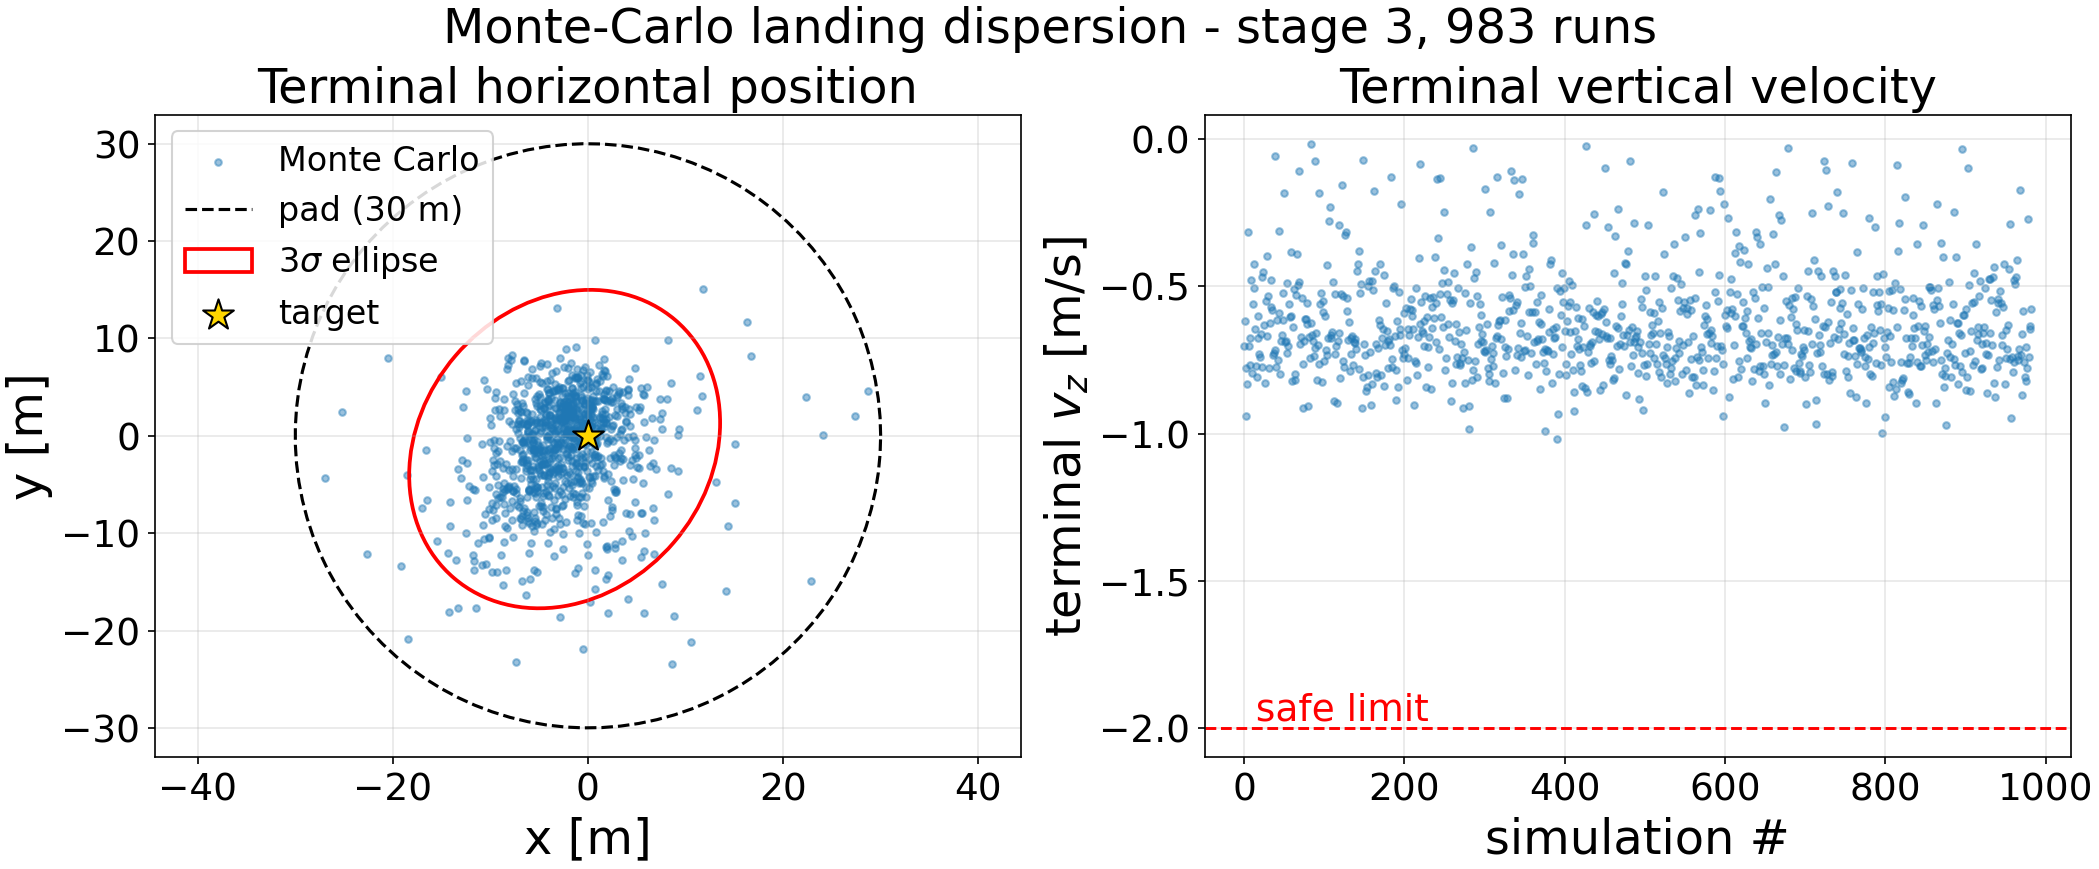
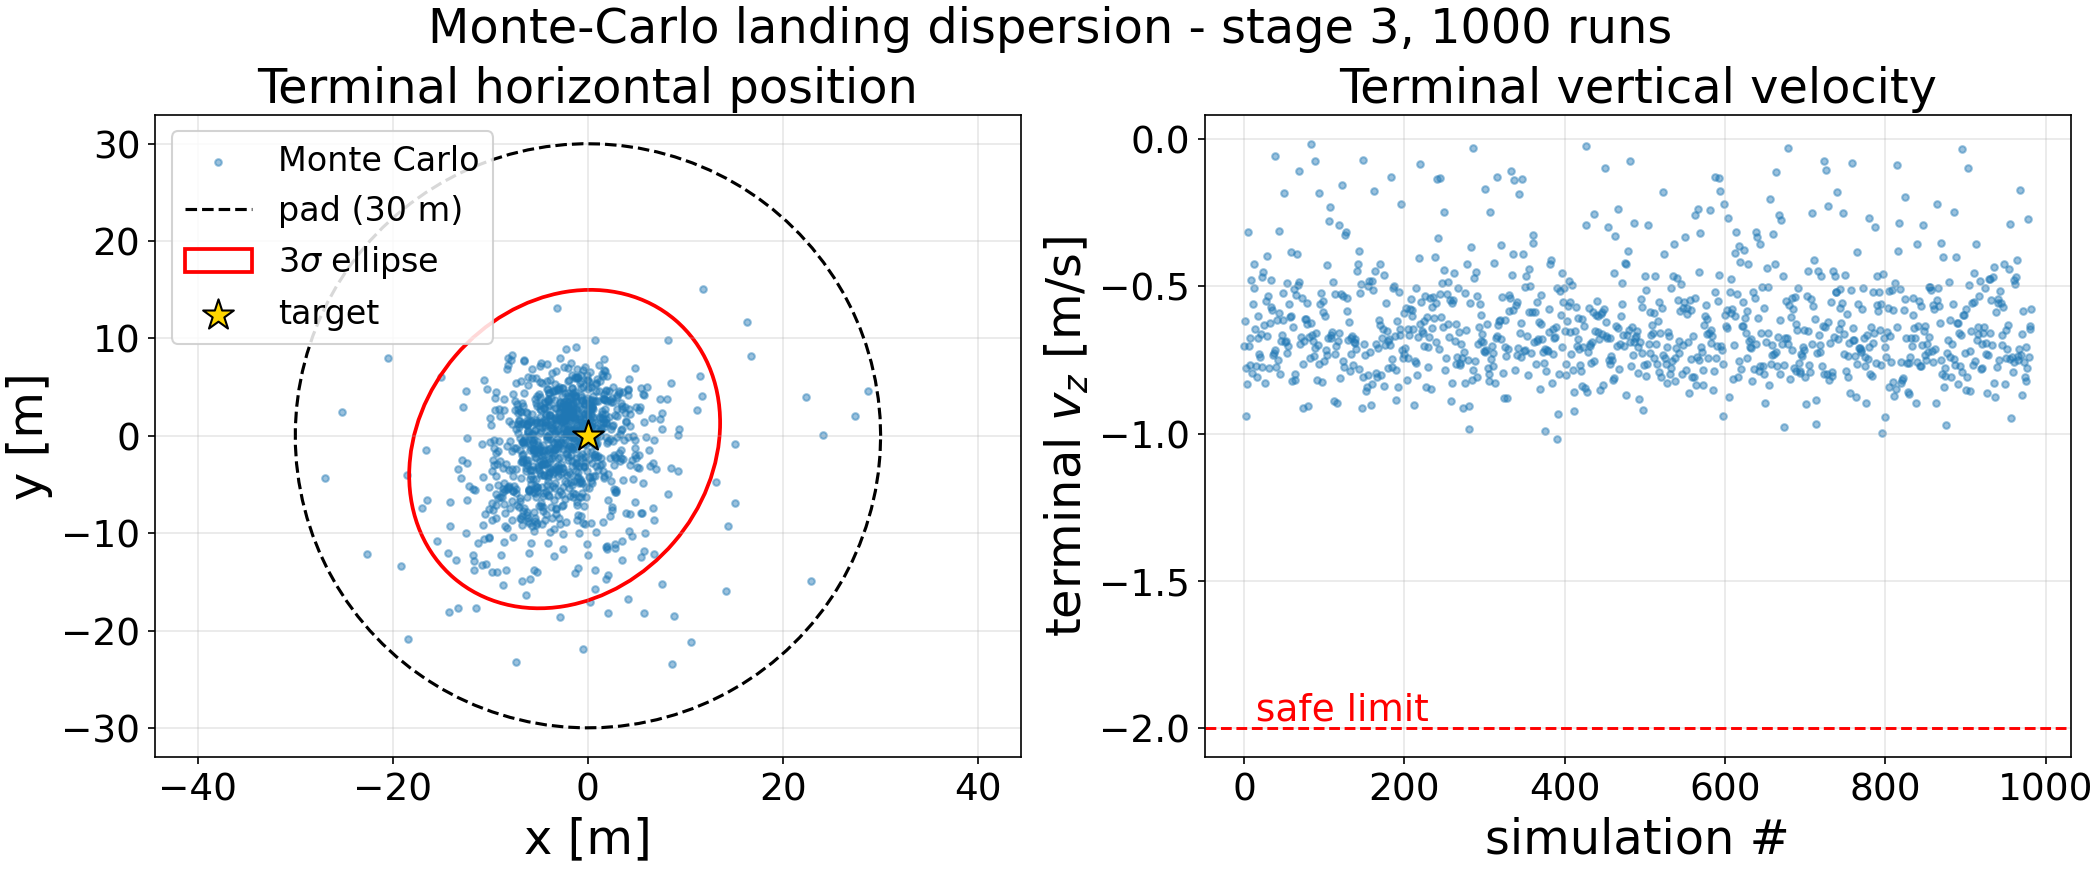
small fix

Changed region(s): [[0.1858, 0.0, 0.8051, 0.0621]]

diff --git a/analysis.py b/analysis.py
@@ -611,7 +611,8 @@ def plot_dispersion(mc, stage, fname="figures/dispersion.png"):
 
     g = mc["grounded"]
     x, y, vz = mc["x"][g], mc["y"][g], mc["vz"][g]
-    n = len(x)
+    n = len(x)              
+    n_total = len(g)        
     fig, axes = plt.subplots(1, 2, figsize=(14, 5.8), constrained_layout=True)
 
     a = axes[0]
@@ -643,7 +644,7 @@ def plot_dispersion(mc, stage, fname="figures/dispersion.png"):
     b.set_xlabel("simulation #"); b.set_ylabel("terminal $v_z$ [m/s]")
     b.set_title("Terminal vertical velocity"); b.grid(alpha=0.3)
 
-    fig.suptitle(f"Monte-Carlo landing dispersion - stage {stage}, {n} runs", fontsize=23)
+    fig.suptitle(f"Monte-Carlo landing dispersion - stage {stage}, {n_total} runs", fontsize=23)
     _save(fig, fname, pdf=True)
 
 def verify_simulator(fname="figures/sim_verification.png"):